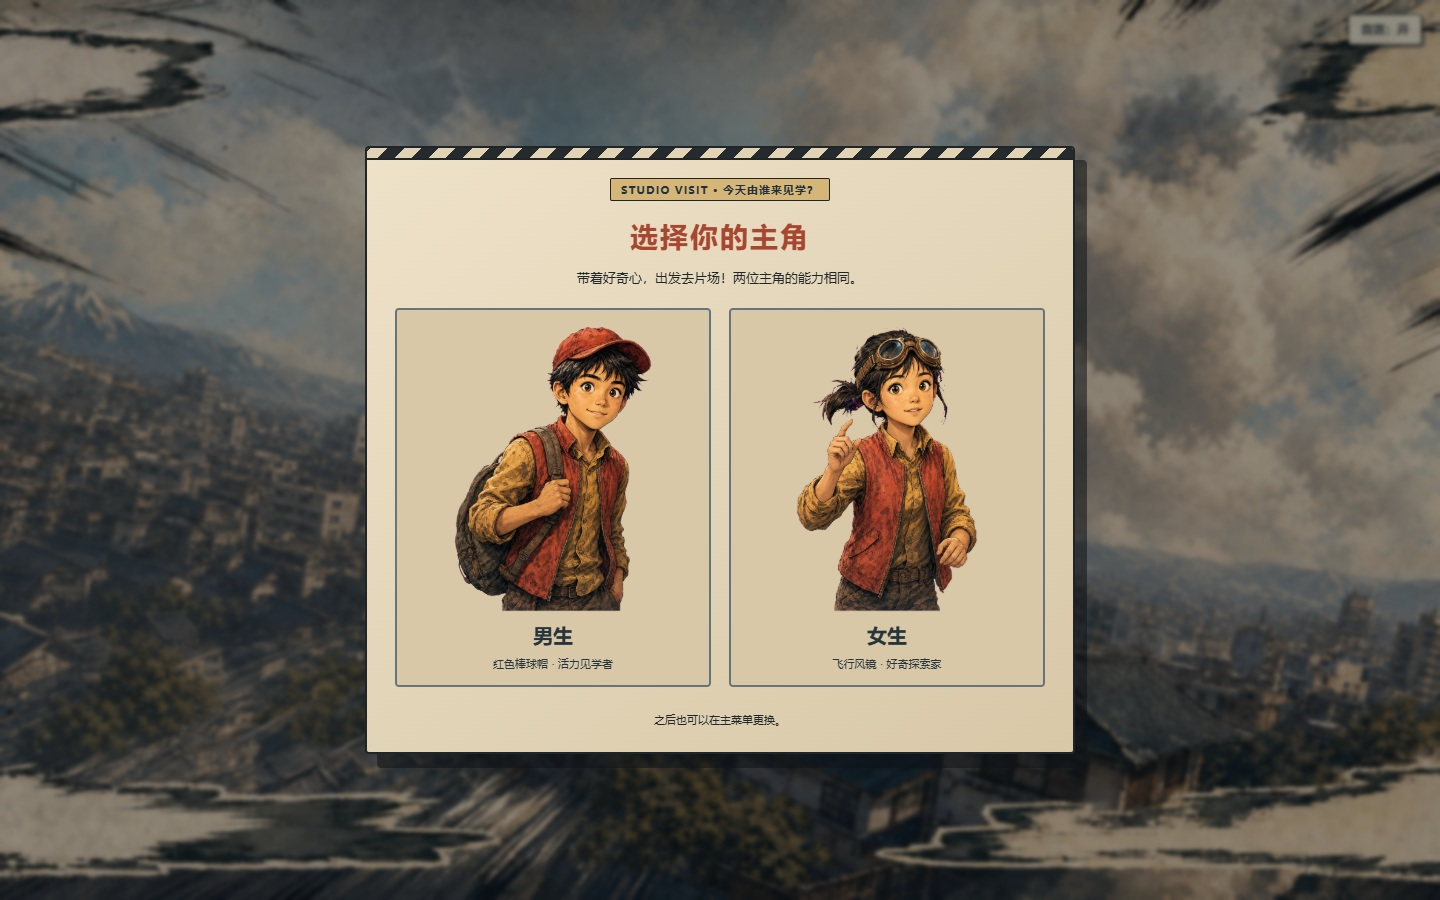
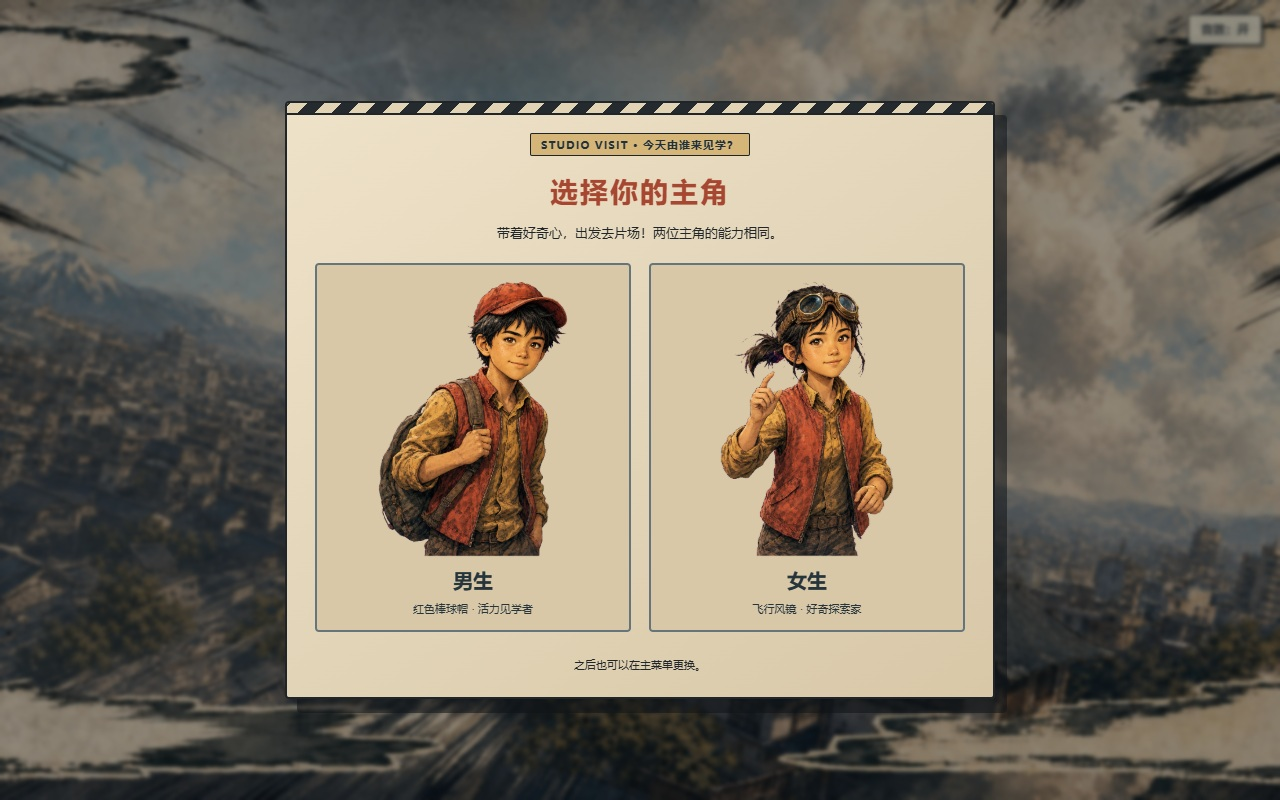
Fix live opening sequence, natural portraits and Godzilla grounding

Changed region(s): [[0.2188, 0.125, 0.8125, 0.9062], [0.9062, 0.0, 1.0, 0.0625]]

diff --git a/scene_art.js b/scene_art.js
@@ -90,6 +90,7 @@
     ctx.restore();return ready;
   }
   const monsters = ['moth', 'rodan', 'gamera', 'godzilla', 'gillas', 'ghidorah', 'anguirus'];
+  const openingTiming = { heroStart: .75, heroDuration: 1.1, monsterStart: 2.15, monsterDuration: 1.15, menuAt: 3.8 };
   const names = { moth: '摩斯拉', rodan: '拉顿', gamera: '加美拉', godzilla: '哥斯拉', gillas: '吉拉斯兄弟', ghidorah: '王者基多拉', anguirus: '安吉拉斯' };
   function openingReady(state) {
     const art = window.kaijuArt;
@@ -104,7 +105,7 @@
       ctx.drawImage(bg, (W - bg.width * scale) / 2, (H - bg.height * scale) / 2, bg.width * scale, bg.height * scale);
     }
     if (state.phase === 'character') return;
-    const ready = openingReady(state), time = state.phase === 'intro' ? state.introT || 0 : 3;
+    const ready = openingReady(state), time = state.phase === 'intro' ? state.introT || 0 : openingTiming.menuAt;
     if (ready) {
       const portrait = W / H < 1.1;
       function layer(image, left, top, maxW, maxH, shift) {
@@ -115,8 +116,8 @@
       const creature = art.get('opening-' + state.openingMonster);
       const hero = art.get('opening-hero-' + state.character);
       // Monsters are behind the foreground child, as in the supplied poster.
-      layer(creature, W * (portrait ? .16 : .38), H * .06, W * (portrait ? .90 : .68), H * (portrait ? .52 : .78), W * 1.2 * (1 - ease((time - 1.15) / 1.05)));
-      layer(hero, W * (portrait ? -.10 : -.045), H * (portrait ? .26 : .27), W * (portrait ? .78 : .55), H * (portrait ? .38 : .66), -W * 1.15 * (1 - ease((time - .6) / 1.0)));
+      layer(creature, W * (portrait ? .16 : .38), H * .06, W * (portrait ? .90 : .68), H * (portrait ? .52 : .78), W * 1.2 * (1 - ease((time - openingTiming.monsterStart) / openingTiming.monsterDuration)));
+      layer(hero, W * (portrait ? -.10 : -.045), H * (portrait ? .26 : .27), W * (portrait ? .78 : .55), H * (portrait ? .38 : .66), -W * 1.15 * (1 - ease((time - openingTiming.heroStart) / openingTiming.heroDuration)));
     }
     ctx.save();
     ctx.fillStyle = '#242b2c';ctx.textAlign = 'left';ctx.font = '900 ' + Math.min(38, W * .052) + 'px Georgia, serif';
@@ -124,7 +125,7 @@
     ctx.fillText('KAIJU FLY', W * .045, H * .097);
     ctx.font = 'bold ' + Math.min(14, W * .025) + 'px sans-serif';
     ctx.fillText('怪兽飞天 · 特摄片场大冒险', W * .047, H * .13);
-    if (time > 2.3) {
+    if (time > openingTiming.monsterStart + openingTiming.monsterDuration) {
       ctx.textAlign = 'right';ctx.font = 'bold ' + Math.min(24, W * .045) + 'px sans-serif';
       ctx.fillText(names[state.openingMonster] + ' · 本日登场', W * .955, H * .095);
     }
@@ -134,5 +135,5 @@
     }
     ctx.restore();
   }
-  window.kaijuScene = { background, floor, tileIndex, endingIndex, endingReady, drawEnding, endingOverlay, opening, openingReady, monsters };
+  window.kaijuScene = { background, floor, tileIndex, endingIndex, endingReady, drawEnding, endingOverlay, opening, openingReady, openingTiming, monsters };
 })();

diff --git a/index.html b/index.html
@@ -4,7 +4,7 @@
 <meta charset="utf-8">
 <meta name="viewport" content="width=device-width,initial-scale=1,maximum-scale=1,user-scalable=no">
 <title>KAIJU FLY - 怪兽飞天 · 特摄片场大冒险</title>
-<link rel="stylesheet" href="style.css">
+<link rel="stylesheet" href="style.css?v=5.1">
 </head>
 <body>
 <div id="stage">
@@ -111,8 +111,8 @@
         <h2>选择你的主角</h2>
         <p>带着好奇心，出发去片场！两位主角的能力相同。</p>
         <div class="character-options">
-          <button class="character-choice" data-character="boy"><img src="art_prototypes/revision5/portrait-boy.png" alt="背着书包、兴奋好奇的红帽男孩半身立绘"><b>男生</b><span>红色棒球帽 · 活力见学者</span></button>
-          <button class="character-choice" data-character="girl"><img src="art_prototypes/revision5/portrait-girl.png" alt="抬手探索、兴奋好奇的风镜女孩半身立绘"><b>女生</b><span>飞行风镜 · 好奇探索家</span></button>
+          <button class="character-choice" data-character="boy"><img src="art_prototypes/revision5/portrait-natural-boy.png" alt="背着书包、兴奋好奇的红帽男孩半身立绘"><b>男生</b><span>红色棒球帽 · 活力见学者</span></button>
+          <button class="character-choice" data-character="girl"><img src="art_prototypes/revision5/portrait-natural-girl.png" alt="抬手探索、兴奋好奇的风镜女孩半身立绘"><b>女生</b><span>飞行风镜 · 好奇探索家</span></button>
         </div>
         <small>之后也可以在主菜单更换。</small>
       </div>
@@ -137,12 +137,12 @@
 <script src="audio.js"></script>
 <script src="landings.js"></script>
 <script src="entities.js"></script>
-<script src="visual_assets.js"></script>
+<script src="visual_assets.js?v=5.1"></script>
 <script src="progression.js"></script>
 <script src="air_distribution.js"></script>
-<script src="art_prototypes/revision5/manifest.js"></script>
+<script src="art_prototypes/revision5/manifest.js?v=5.1"></script>
 <script src="world_layout.js"></script>
-<script src="scene_art.js"></script>
-<script src="game.js"></script>
+<script src="scene_art.js?v=5.1"></script>
+<script src="game.js?v=5.1"></script>
 </body>
 </html>

diff --git a/game.js b/game.js
@@ -812,7 +812,7 @@
     switch (S.phase) {
       case 'intro':
         if (window.kaijuScene.openingReady(S)) S.introT += dt;
-        if (S.introT >= 2.8) showMenu();
+        if (S.introT >= window.kaijuScene.openingTiming.menuAt) showMenu();
         break;
       case 'aim':
         S.aimT += dt; S.angle = 12 + 66 * tri(S.aimT * 0.85); updateHUD(); break;
@@ -993,7 +993,7 @@
     S.introT = 0; S.phase = 'intro'; S.frozen = false; S.holding = false;
     ['menu', 'characterSelect', 'result', 'paper', 'hud', 'mug'].forEach(id => $(id).classList.add('hidden'));
     $('skipOpening').classList.remove('hidden');
-    if (window.matchMedia && window.matchMedia('(prefers-reduced-motion: reduce)').matches) showMenu();
+    // Always show the requested three-stage entrance. Skipping is explicit.
   }
   function showCharacterSelect() {
     S.phase = 'character'; S.holding = false;
@@ -1024,6 +1024,7 @@
     window.addEventListener('keydown', (e) => {
       if (S.phase === 'character') return;
       if (S.phase === 'intro') {
+        if (e.repeat) return;
         if ([' ', 'Enter', 'Escape'].includes(e.key)) { e.preventDefault(); showMenu(); }
         return;
       }
@@ -1422,7 +1423,9 @@
           const dw = airArt.width * scale, dh = airArt.height * scale;
           ctx.save();
           const rooted = ['oilrig', 'gillas'].includes(artName);
-          ctx.translate(sx + (rooted ? 0 : Math.sin(S.t * 1.4 + e.ph) * 3), rooted ? wy(0) - dh / 2 : sy + Math.sin(S.t * 2 + e.ph) * 4);
+          const foot = window.kaijuArt.groundAnchor(artName, S.t + e.ph);
+          const rootY = wy(0) + (artName === 'oilrig' ? 3 : 0) + dh * (.5 - foot);
+          ctx.translate(sx + (rooted ? 0 : Math.sin(S.t * 1.4 + e.ph) * 3), rooted ? rootY : sy + Math.sin(S.t * 2 + e.ph) * 4);
           if (!rooted) ctx.rotate(Math.sin(S.t * 1.7 + e.ph) * 0.025);
           ctx.drawImage(airArt, -dw / 2, -dh / 2, dw, dh);
           ctx.restore();

diff --git a/art_prototypes/revision5/manifest.js b/art_prototypes/revision5/manifest.js
@@ -1,1 +1,1 @@
-window.kaijuSceneAssets = {"groundRatios": {"canvas": 0.97639, "anguirus": 1.73016, "sand": 2.0, "tower": 0.38784, "ultraman": 0.94457, "water": 2.27041, "dolly": 0.95541, "chair": 1.00257}};
+window.kaijuSceneAssets = {"groundRatios": {"canvas": 0.97639, "anguirus": 1.73016, "sand": 2.0, "tower": 0.38784, "ultraman": 0.94457, "water": 2.27041, "dolly": 0.95541, "chair": 1.00257}, "groundAnchors": {"oilrig": [0.9375, 0.9375, 0.9375, 0.939453125, 0.865234375, 0.865234375, 0.865234375]}};

diff --git a/visual_assets.js b/visual_assets.js
@@ -94,6 +94,10 @@
   window.kaijuArt = {
     character: 'boy',
     prioritize(names) { prioritize(names); },
+    groundAnchor(name, time) {
+      const frames = window.kaijuSceneAssets?.groundAnchors?.[name];
+      return frames ? frames[Math.floor(Math.max(0, time) * 7) % 7] : 1;
+    },
     setCharacter(character) { this.character = character === 'girl' ? 'girl' : 'boy'; },
     grip(name, time) {
       // Fixed anchors exported by revision3/build.py after talon registration.

diff --git a/art_prototypes/revision5/build.py b/art_prototypes/revision5/build.py
@@ -114,7 +114,7 @@ for stage in ('day','sunset','night','moon'):
         tile=Image.new('RGBA',(layer.width*2,layer.height));tile.paste(layer,(0,0));tile.paste(layer.transpose(Image.Transpose.FLIP_LEFT_RIGHT),(layer.width,0))
         save(tile,f'parallax-{stage}-{i}.png',(2048,512))
 
-for name,prefix in [('portraits','portrait'),('opening-heroes','opening-hero')]:
+for name,prefix in [('portraits','portrait'),('portraits-natural','portrait-natural'),('opening-heroes','opening-hero')]:
     path=root/f'{name}-source.png'
     if path.exists():
         source=Image.open(path)
@@ -139,6 +139,10 @@ for frame in range(7):
     preview.append(page.convert('RGB'))
 preview[0].save(root/'endings-preview.gif',save_all=True,append_images=preview[1:],duration=[180,150,150,150,150,150,1300],loop=0,disposal=2)
 preview[-1].save(root/'endings-preview.png')
-(root/'manifest.js').write_text('window.kaijuSceneAssets = '+json.dumps({'groundRatios':ratios})+';\n',encoding='utf-8')
+feet=[]
+for i in range(7):
+    alpha=np.array(Image.open(root/f'oilrig-frame-{i}.png'))[:,:,3]
+    feet.append(float((np.where(alpha>150)[0].max()+1)/alpha.shape[0]))
+(root/'manifest.js').write_text('window.kaijuSceneAssets = '+json.dumps({'groundRatios':ratios,'groundAnchors':{'oilrig':feet}})+';\n',encoding='utf-8')
 (root/'alpha-audit.json').write_text(json.dumps(audit,indent=2),encoding='utf-8')
 print(f'Exported and verified {len(audit)} RGBA images. Ground ratios: {ratios}')

diff --git a/art_prototypes/revision5/README.md b/art_prototypes/revision5/README.md
@@ -4,17 +4,17 @@
 
 ## 选角与开场
 
-- `portrait-boy.png` / `portrait-girl.png` 是重新绘制的半身立绘，保留红色棒球帽男孩与风镜女孩的服装和身份，表情为兴奋、好奇的小幅微笑。没有拿游戏飞行帧裁切放大。
+- `portrait-natural-boy.png` / `portrait-natural-girl.png` 是重新绘制的半身立绘（后续按反馈缩小眼睛、放松眼睑、调整视线，使神态更自然），保留红色棒球帽男孩与风镜女孩的服装和身份，表情为兴奋、好奇的小幅微笑。没有拿游戏飞行帧裁切放大。
 - `opening-background.jpg` 为独立的片场城市背景；`opening-hero-boy.png` / `opening-hero-girl.png` 为新绘的大幅前景人物。双人初稿中的男孩手臂越过分格，最终单独重绘两位人物，保留完整手指与靴子。
 - 七种随机登场：摩斯拉、拉顿、加美拉、哥斯拉、吉拉斯兄弟、王者基多拉、安吉拉斯。每一种都有独立绘制的 `opening-*.png` 大幅怪兽插画。
-- 选角后先展示空场景 0.6 秒；主角在 0.6–1.6 秒从左侧滑入，怪兽在 1.15–2.2 秒从右侧滑入；2.8 秒出现菜单。人物位于怪兽图层前方，所有位置适配横屏及竖屏。
-- 开场提供跳过按钮及空格、回车、Esc 快捷键；系统要求减少动态效果时直接展示组合画面。开场图按优先级加载，所选主角和怪兽就绪后计时。
+- 选角后先展示空场景 0.75 秒；主角在 0.75–1.85 秒从左侧滑入并停稳，怪兽在 2.15–3.3 秒从右侧滑入；3.8 秒出现菜单。三个阶段依次进行，不重叠。人物位于怪兽图层前方，所有位置适配横屏及竖屏。
+- 开场提供跳过按钮及空格、回车、Esc 快捷键；已修正系统“减少动态效果”设置导致自动跳过开场的问题，两种系统设置都展示完整过程，只有玩家主动操作才跳过。开场图按优先级加载，所选主角和怪兽就绪后计时。
 
 ## 怪兽与场景
 
 - 加美拉根据用户给的模型照片改为隆起的长椭圆、叠片甲壳，四周弯曲的青蓝色喷焰；七个旋转帧保留甲壳体积，不再压成扁圆盘。
 - 引力射线云扩大为 32×26 米的视觉范围，顶部与中部两侧有多次折弯、分叉的大型金色电弧。充能判定保留在云团内部，装饰光弧不会额外形成自动补给链。
-- 哥斯拉仰天吐息扩大为 25×44 米的视觉范围，身体、吐息宽度及长度一同提高。
+- 哥斯拉仰天吐息扩大为 25×44 米的视觉范围，身体、吐息宽度及长度一同提高。后续修正七帧透明留白与脚底位置差异，逐帧记录实际脚底锚点，所有帧的脚底均落在地面内 3 像素，消除后半段悬空。
 - 三组 `ground-strip-*.png` 绘制仓库模型、备用景片、工具、摄影机、支架与电缆，按种子混合循环，每组三段均使用三个不同素材。透明边缘交叠衔接，地面覆盖到屏幕底部。
 - 四幕各有天空、远景、近景三层，按不同世界位移比例与缓慢时间漂移循环。高空及长距离不再把背景滚动钳制在最后一帧。夜景白色分隔线和其他生成画稿不等宽的分层边界已逐一裁除。
 - 生成道具时检查整个可视占用范围；不同类型至少横向 9 米或纵向 5 米，同类至少横向 20 米或纵向 12 米。包含飞行动画的翼展。找不到空位时留空，不堆叠。
@@ -40,7 +40,7 @@
 
 使用用户已授权的 Image API，模型 `gpt-image-2`，高质量生成。`*-prompt.txt` 保存完整提示词，`*-source.png` 保存原始生成画稿。参考输入是用户提供的加美拉模型、基多拉海报与开场构图，以及项目内既有角色、场景素材。外部参考原图不重复提交。
 
-`prepare.py` 和 `prepare_opening.py` 准备提示词；`build.py` 分帧、按实际图稿边界分层、清除品红底色、处理光效半透明、登记共同基线、导出 PNG。所有 **167 张 RGBA 输出**均保存后重新解码，确认完全透明区域 RGB 为零，记录于 `alpha-audit.json`。背景使用 JPEG；`manifest.js` 保存道具实际宽高比例，供绘制与碰撞共用。
+`prepare.py` 和 `prepare_opening.py` 准备提示词；`build.py` 分帧、按实际图稿边界分层、清除品红底色、处理光效半透明、登记共同基线、导出 PNG。所有 **169 张 RGBA 输出**均保存后重新解码，确认完全透明区域 RGB 为零，记录于 `alpha-audit.json`。背景使用 JPEG；`manifest.js` 保存道具实际宽高比例，供绘制与碰撞共用。
 
 运行示例（环境需有已配置的 API key，命令不打印密钥）：
 
@@ -54,7 +54,8 @@ python art_prototypes/revision5/build.py
 - `scene-check.js`：384 个世界快照、216 万余对道具间距；八种收场 × 两种角色的高速碰撞、先后顺序、上方擦过、带飞中接触、结算及奖励只记一次。
 - `distribution-check.js`：12 万次高度分布抽样，实际生成至 10005 米；120 个种子的低空密度、旧道具回收；24 次完全不操作均结束，最长 19 秒。
 - `progression-check.js`：解锁、保存和能力档位；72 次飞行模拟。基础配置持续按住的 12 个固定种子全部结束，最长 90 秒，中位距离约 2931 米；满解锁在 180 秒观察窗口仍可长距离刷分。这是抽样结果，不代表所有随机局面的保证。
+- `opening-check.cjs`：通过真实选角点击和自然播放验证完整顺序（不手动设置动画时间），覆盖“减少动态效果”及正常两种设置、手动跳过；从图片像素测量七帧哥斯拉脚底并核对实际画布坐标。
 - `revision5-check.cjs`：全部新素材加载、左右入场顺序、七种怪兽组合、48 个收场动画状态、三层高空漂移、桌面和手机布局。
 - `browser-check.cjs` / `animation-check.cjs`：原有实际游玩、工坊、存档、七帧循环、带飞遮挡和中断图片重试的回归检查。
 
-预览：`opening-preview.gif`、`opening-preview.jpg`、`selection-preview.jpg`、`endings-preview.gif`。
+当前三阶段实机截图：`opening-stages-preview.jpg`；新版选角：`selection-preview.jpg`；收场：`endings-preview.gif`。`opening-preview.gif` 保留为初版构图记录，当前入场时序以上述 3.8 秒流程为准。
